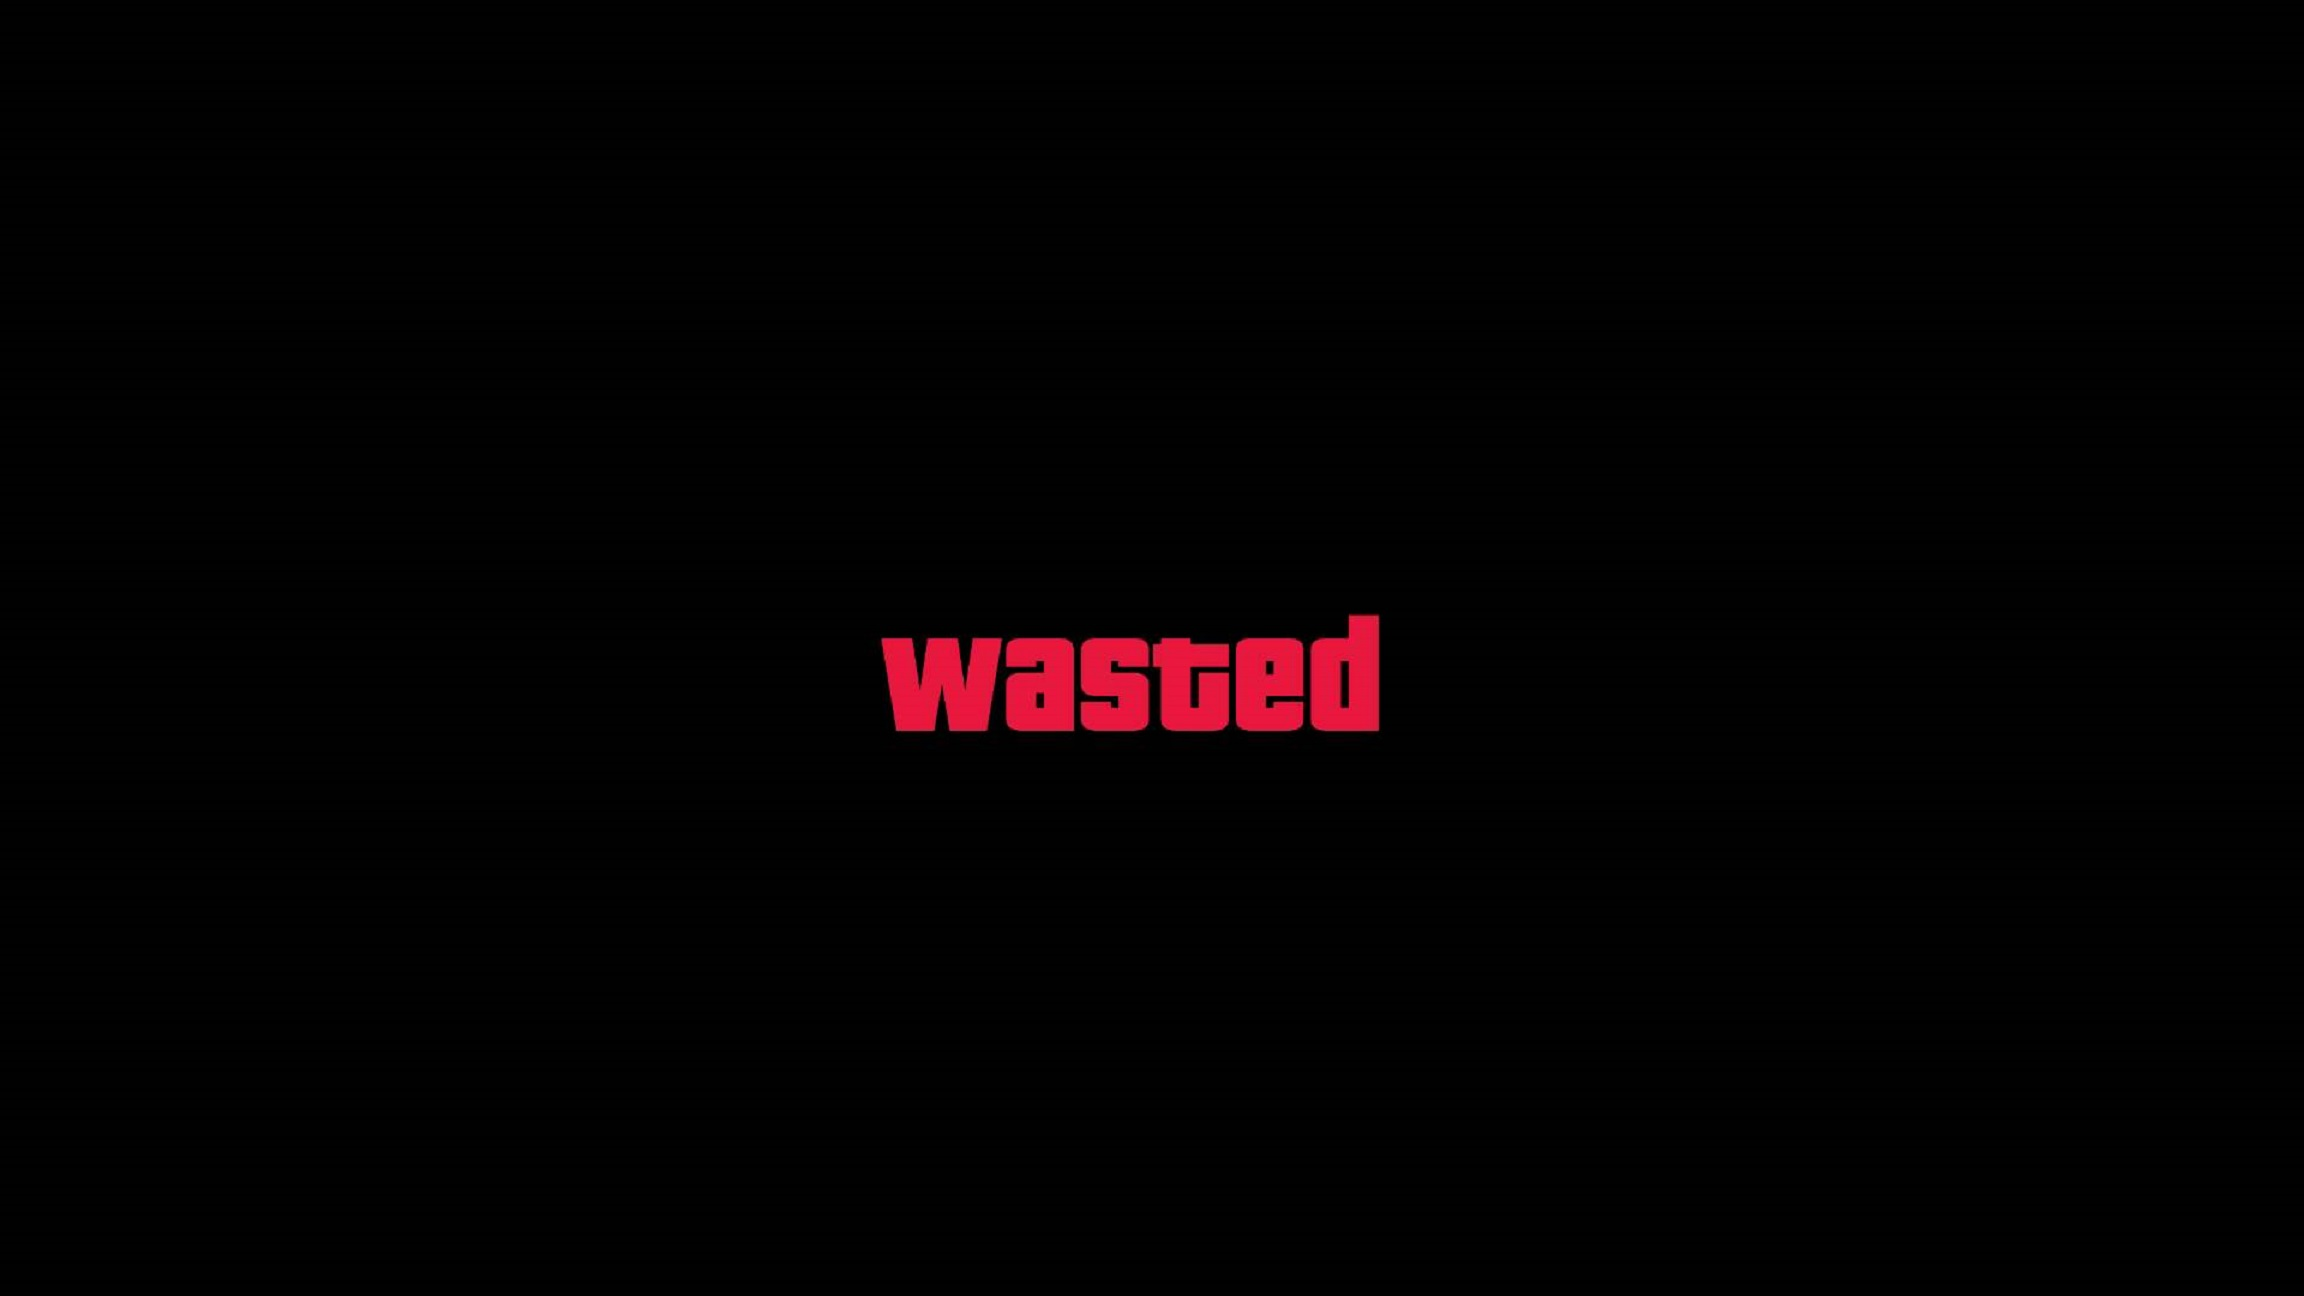
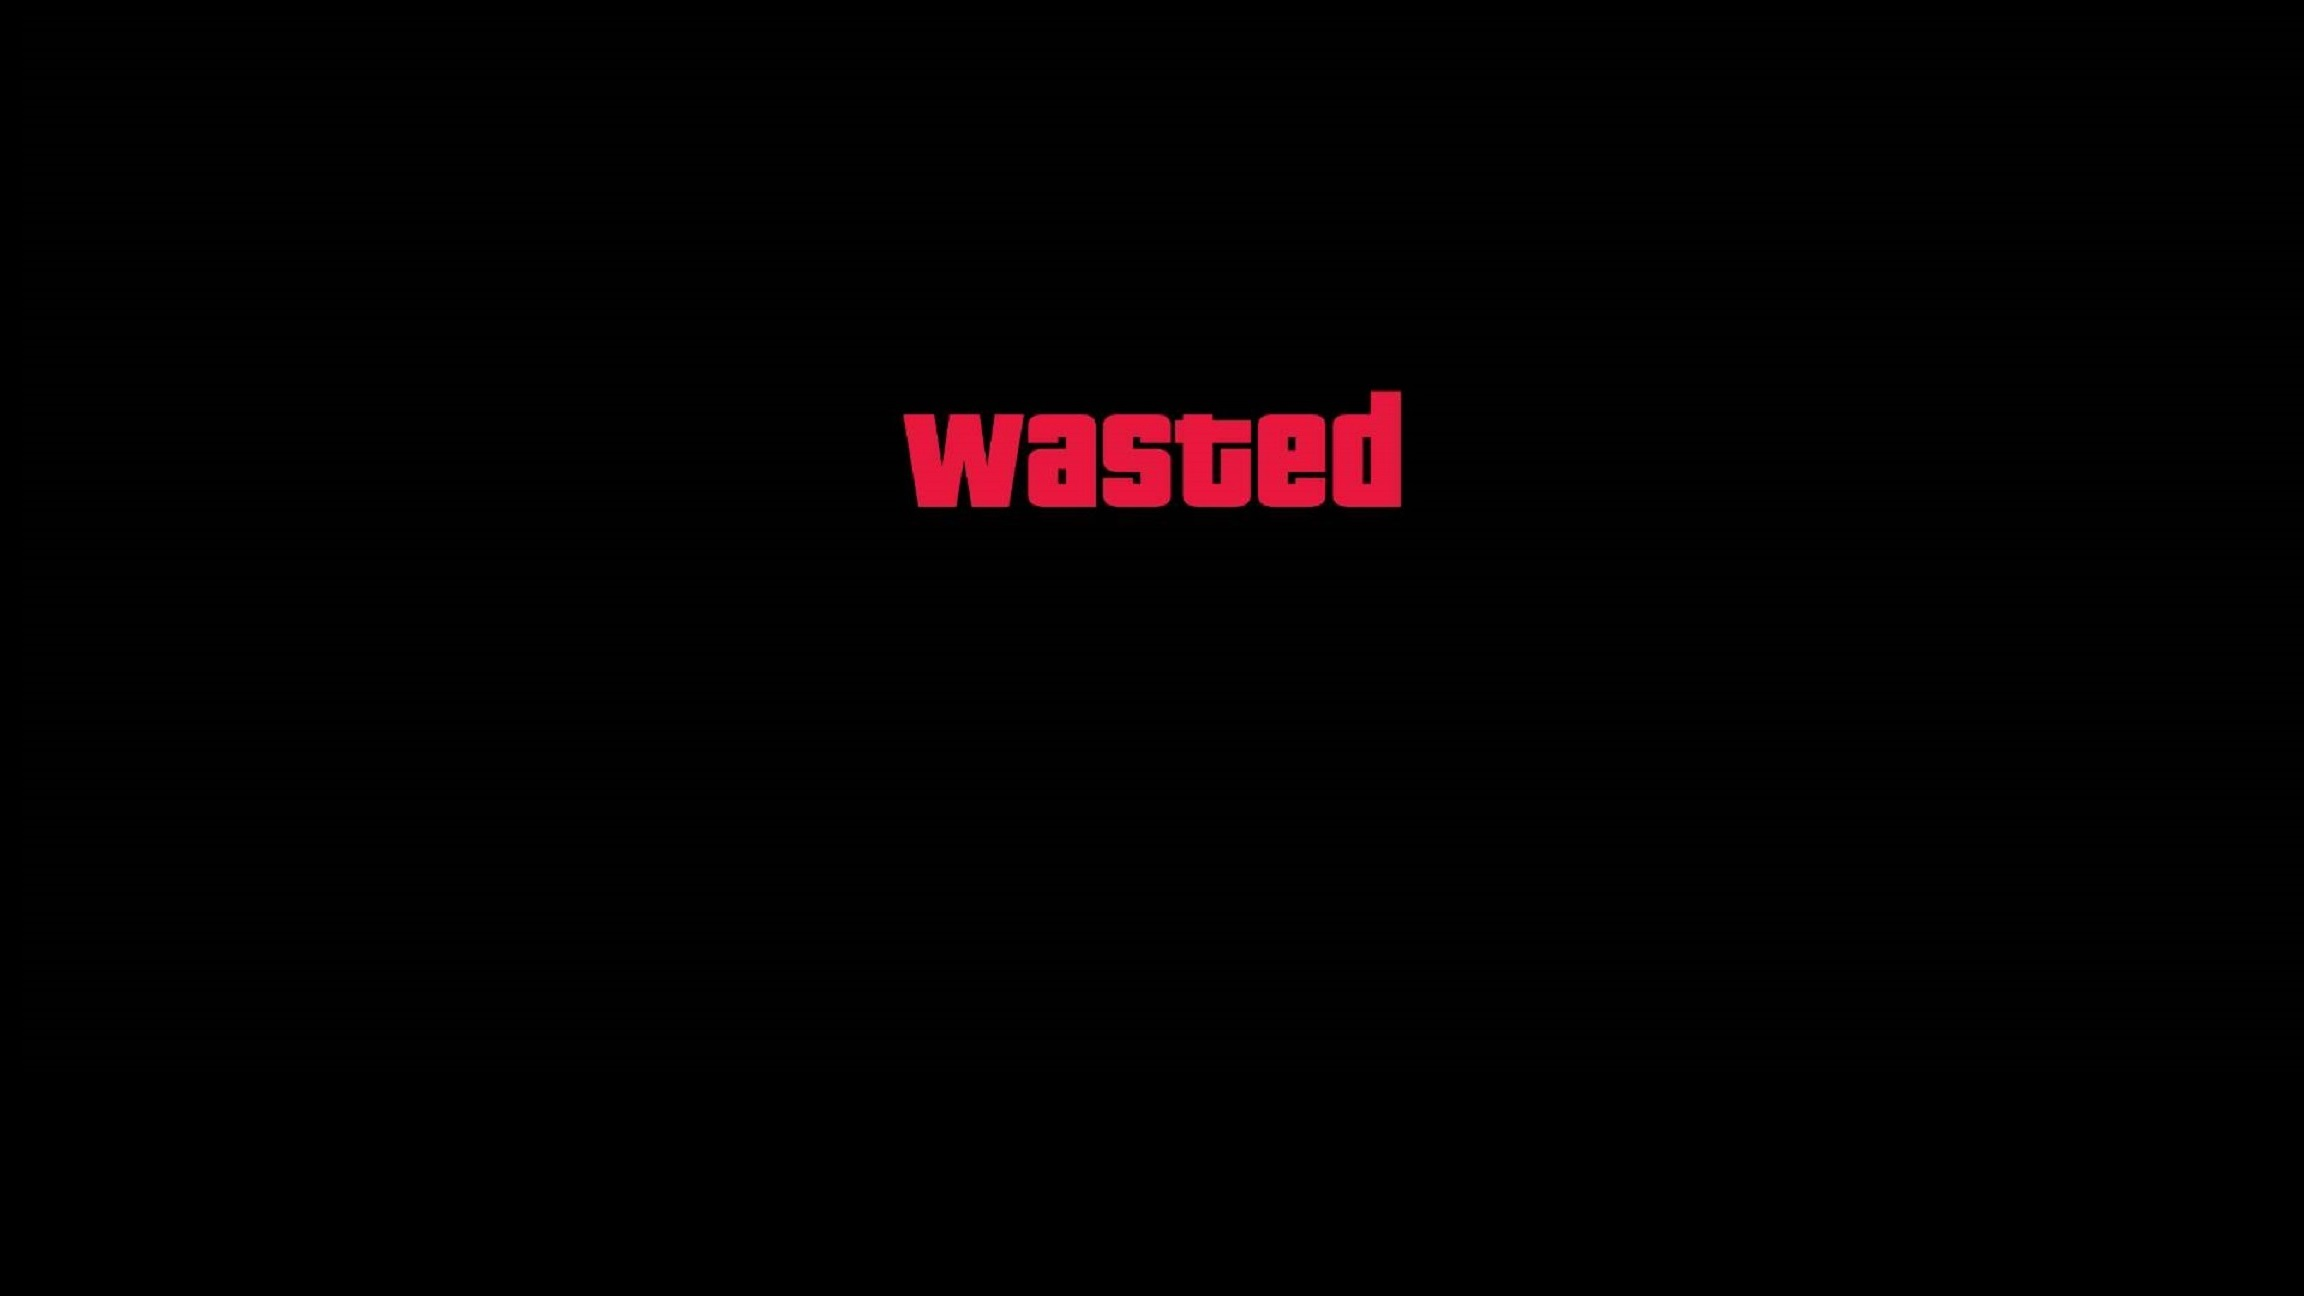
Updated game over screen & allowed scene reloading

Changed region(s): [[0.375, 0.463, 0.625, 0.5864], [0.375, 0.2778, 0.625, 0.4012]]

diff --git a/Assets/Scripts/Utils/GameUtils.cs b/Assets/Scripts/Utils/GameUtils.cs
@@ -14,6 +14,7 @@ public class GameUtils : MonoBehaviour {
     private static bool isNewGame = false;
     private GameObject loadingScreen;
     private Slider slider;
+    private static bool forceReloading = false;
 
     private void OnEnable()
     {
@@ -44,25 +45,39 @@ public class GameUtils : MonoBehaviour {
     {
         if (SceneManager.GetActiveScene().name != "MainMenu")
         {
-            if (!InterfaceUtils.CloseOpenWindows())
-            {
-                InterfaceUtils.CloseOpenWindows();
-                InterfaceUtils.CloseOpenWindows();
-                InterfaceUtils.CloseOpenWindows();
-                InterfaceUtils.CloseOpenWindows();
-                InterfaceUtils.CloseOpenWindows();
-                InterfaceUtils.CloseOpenWindows();
-                InterfaceUtils.CloseOpenWindows();
-                InterfaceUtils.CloseOpenWindows();
-                InterfaceUtils.CloseOpenWindows();
-                InterfaceUtils.CloseOpenWindows();
-            }
+            ForceCloseOpenedWindows();
             SaveGame();
             playerName = FindUtils.GetPlayer().GetName();
         } 
 
         scene = sceneName;
         
+    }
+
+    private static void ForceCloseOpenedWindows()
+    {
+        if (!InterfaceUtils.CloseOpenWindows())
+        {
+            InterfaceUtils.CloseOpenWindows();
+            InterfaceUtils.CloseOpenWindows();
+            InterfaceUtils.CloseOpenWindows();
+            InterfaceUtils.CloseOpenWindows();
+            InterfaceUtils.CloseOpenWindows();
+            InterfaceUtils.CloseOpenWindows();
+            InterfaceUtils.CloseOpenWindows();
+            InterfaceUtils.CloseOpenWindows();
+            InterfaceUtils.CloseOpenWindows();
+            InterfaceUtils.CloseOpenWindows();
+        }
+    }
+
+    public static void ReloadScene()
+    {
+        Debug.Log("reload scene called");
+        ForceCloseOpenedWindows();
+        SaveGame();
+        scene = SceneManager.GetActiveScene().name;
+        forceReloading = true;
     }
 
     void OnLevelFinishedLoading(Scene scene, LoadSceneMode mode)
@@ -115,7 +130,7 @@ public class GameUtils : MonoBehaviour {
     {
         if(scene != null)
         {
-            if (SceneManager.GetActiveScene().name != scene)
+            if (SceneManager.GetActiveScene().name != scene || forceReloading)
             {
                 StartCoroutine(LoadSceneAsync(scene));
             }
@@ -126,6 +141,7 @@ public class GameUtils : MonoBehaviour {
 
     IEnumerator LoadSceneAsync(string sceneName)
     {
+        forceReloading = false;
         AsyncOperation operation =  SceneManager.LoadSceneAsync(sceneName, LoadSceneMode.Single);
         loadingScreen.SetActive(true);
 

diff --git a/Assets/Scripts/Player/TrollGameOverScreen.cs b/Assets/Scripts/Player/TrollGameOverScreen.cs
@@ -1,4 +1,5 @@
-using System.Collections;
+using System;
+using System.Collections;
 using System.Collections.Generic;
 using UnityEngine;
 
@@ -6,22 +7,43 @@ public class TrollGameOverScreen : MonoBehaviour {
 
 	SpriteRenderer spRenderer;
 	float alpha = 0;
+    bool isFreeSpiritRunning = false;
+    AudioClip deadMusic;
 
-	// Use this for initialization
-	void Start () {
-        AudioClip deadMusic = (AudioClip)Resources.Load("Musics/Spirit");
+    // Use this for initialization
+    void Start () {
+        deadMusic = (AudioClip)Resources.Load("Musics/Spirit");
         MusicManager.PlayMusic(deadMusic);
         spRenderer = this.GetComponent<SpriteRenderer> ();
 		spRenderer.color = new Color(1,1,1,alpha);
-	}
+        Time.timeScale = 0.6f;
+    }
 	
 	// Update is called once per frame
 	void Update ()
     {
         transform.position = new Vector3(Camera.main.gameObject.transform.position.x, Camera.main.gameObject.transform.position.y, 0);
+
+        MusicManager.PlayMusic(deadMusic);
         if (spRenderer.color.a < 0.7f) {
 			alpha += Time.deltaTime / 4;
 			spRenderer.color = new Color(1,1,1,alpha);
 		}
-	}
+
+        if (!isFreeSpiritRunning)
+        {
+            StartCoroutine(FreeSpirit());
+        }
+    }
+
+    IEnumerator FreeSpirit()
+    {
+        isFreeSpiritRunning = true;
+        yield return new WaitForSecondsRealtime(5);
+        Time.timeScale = 1;
+
+        Action resetDefaultsAction = new Action(() => GameUtils.ReloadScene());
+        Interface.DrawModalDialog("Get back to checkpoint ?", resetDefaultsAction);
+        isFreeSpiritRunning = false;
+    }
 }

diff --git a/Assets/Scripts/Characters/Character.cs b/Assets/Scripts/Characters/Character.cs
@@ -855,29 +855,32 @@ public abstract class Character : InteractableBehaviour
 
     public virtual void die()
     {
-        SoundManager.PlaySound(deathSounds);
-        if(castingSpell != null)
-        {
-            SoundManager.StopSound(castingSpell.GetPreCastSound());
-        }
-
-		isDead = true;
-        CancelTarget();
-        CancelCast();
-        RemoveBuffsAndDebuffs();
-        LeaveCombat();
-        target = null;
-
-        if (anim != null)
-        {
-            anim.Play("Death");
-            if(!(this is Player))
+        if (!isDead)
+        { 
+            SoundManager.PlaySound(deathSounds);
+            if(castingSpell != null)
             {
-                StartCoroutine("FadeOut");
+                SoundManager.StopSound(castingSpell.GetPreCastSound());
             }
-        } else
-        {
-            gameObject.SetActive(false);
+
+	        isDead = true;
+            CancelTarget();
+            CancelCast();
+            RemoveBuffsAndDebuffs();
+            LeaveCombat();
+            target = null;
+
+            if (anim != null)
+            {
+                anim.Play("Death");
+                if(!(this is Player))
+                {
+                    StartCoroutine("FadeOut");
+                }
+            } else
+            {
+                gameObject.SetActive(false);
+            }
         }
     }
 

diff --git a/Assets/Scripts/Characters/Player.cs b/Assets/Scripts/Characters/Player.cs
@@ -193,7 +193,13 @@ public class Player : Character
             Interface.Click();
         }
 
-        //Cheat
+        //Cheats
+        if (Input.GetKeyDown(KeyCode.F1))
+        {
+            if (GetTarget() != null && GetTarget() is Hostile)
+                GetTarget().ApplyDamage(999999, true, true);
+        }
+
         if (Input.GetKeyDown(KeyCode.F2))
         {
             LevelUp();
@@ -210,13 +216,11 @@ public class Player : Character
             FindUtils.GetInventoryGrid().AddItem(Items.GetConsumableFromDB("Ice Cold Milk"));
             */
         }
-
-        //Cheat
-        if (Input.GetKeyDown(KeyCode.F1))
+        if (Input.GetKeyDown(KeyCode.F3))
         {
-            if (GetTarget() != null && GetTarget() is Hostile)
-                GetTarget().ApplyDamage(999999, true, true);
+            die();
         }
+        //End Cheats
 
 
     }
@@ -404,12 +408,15 @@ public class Player : Character
 
     }
 
-	public override void die()	
-	{
-		base.die ();
-        SoundManager.PlaySound(Resources.Load<AudioClip>("Sounds/wasted"));
-		Instantiate (Resources.Load ("Wasted"));
-	}
+	public override void die()
+    {
+        if (!isDead)
+        { 
+            base.die ();
+            SoundManager.PlaySound(Resources.Load<AudioClip>("Sounds/wasted"));
+	        Instantiate (Resources.Load ("Wasted"));
+        }
+    }
 }
 
 
